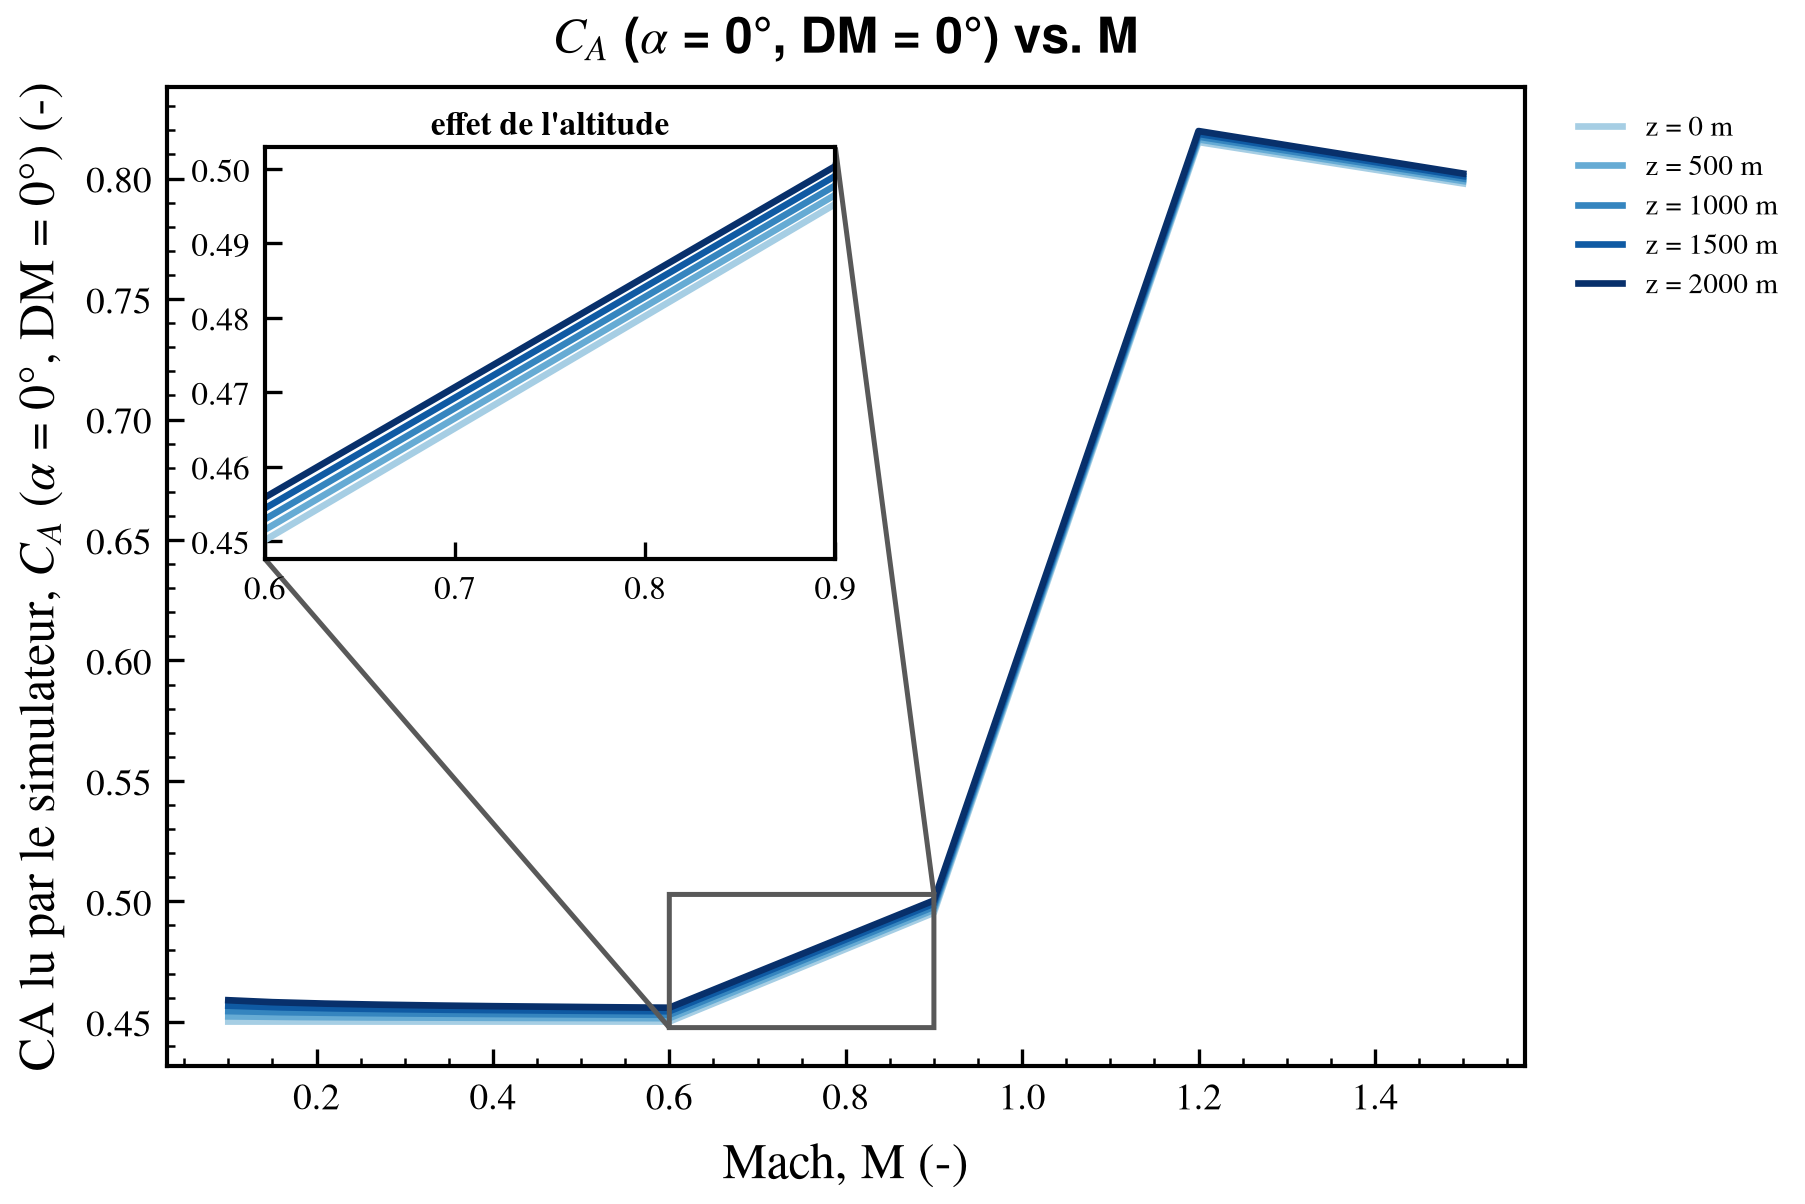
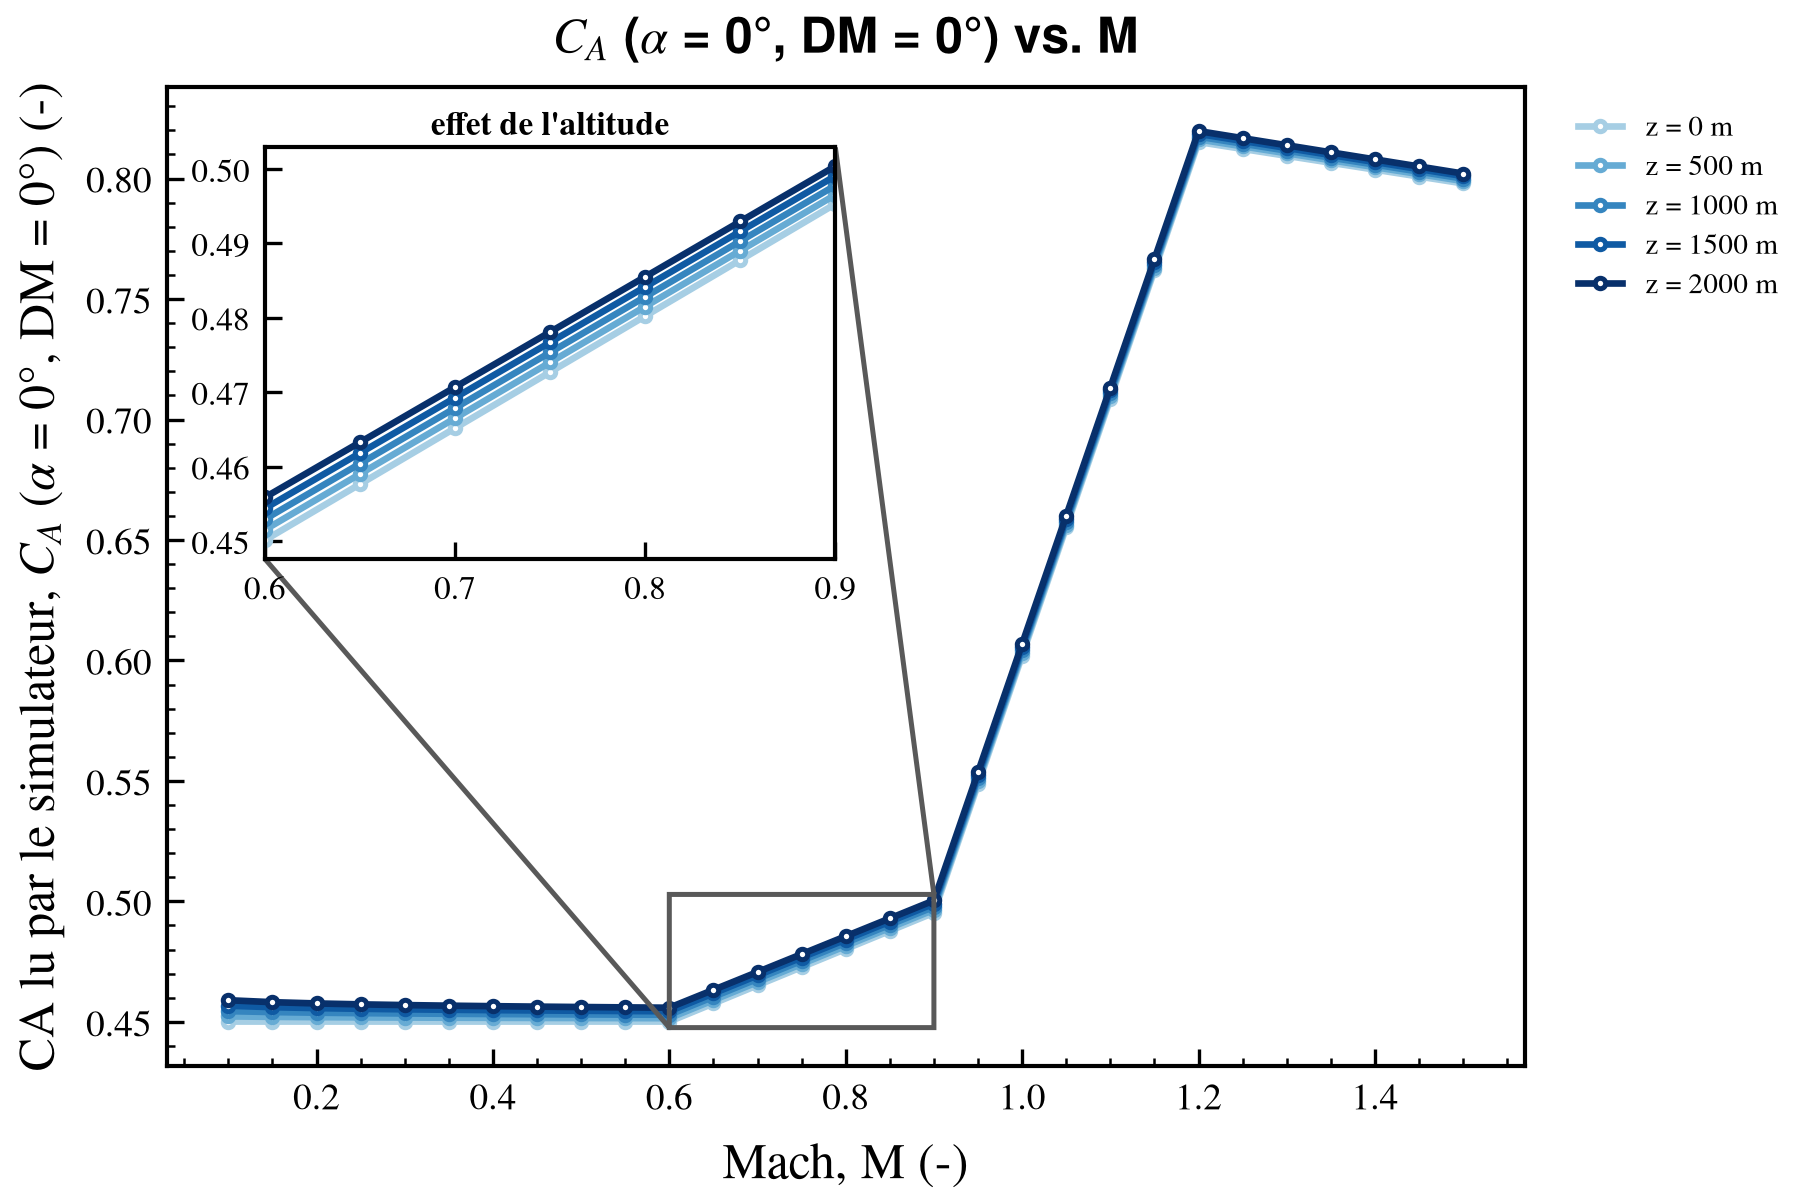
fix(cfd-doe): tracer_base_aero.py produit toujours les figures des coefficients
- Dérivées en α = 0 et DM = 0 : centrées sur un nœud intérieur, décentrées
  (ordre 1) sur une borne — table en α ≥ 0 non complétée par symétrie —,
  NaN quand 0 n'est pas un nœud ; le schéma est signalé en console. Elles
  exigeaient un nœud intérieur et arrêtaient tout le script sinon.
- Les figures des coefficients sont tracées d'abord ; un échec de
  l'équilibre ou des dérivées est signalé sans rien arrêter, une planche
  non produite est nommée au lieu d'interrompre la copie, les chiffres
  d'un nœud absent valent null.
- Courbes d'incrément avec marqueurs, aux Mach des deux tables : plus
  aucune courbe sans marqueur (erreur « Unrecognized marker style » dans
  un environnement utilisateur, non reproduite ici).

diff --git a/tools/cfd-doe/02_PRESENTATION_FUSEE_3DOF/tracer_base_aero.py b/tools/cfd-doe/02_PRESENTATION_FUSEE_3DOF/tracer_base_aero.py
@@ -264,29 +264,61 @@ def equilibre(t: pd.DataFrame) -> pd.DataFrame:
     return pd.DataFrame(lignes)
 
 
-def derivees(t: pd.DataFrame) -> pd.DataFrame:
-    """CNα, Cmα, CNδ, Cmδ (/rad) par différences centrées en α = 0, DM = 0, et marge statique.
+def _indice_zero(axe: np.ndarray) -> int | None:
+    trouves = np.flatnonzero(np.isclose(axe, 0.0, atol=1e-9))
+    return int(trouves[0]) if trouves.size else None
 
-    La marge, −Cmα/CNα, est en longueurs de référence de Cm (calibres si Lréf = D).
-    Un nœud vide parmi ceux de la différence donne NaN, jamais une dérivée calculée sur
-    un faux zéro.
+
+def _pente(axe: np.ndarray, i0: int | None, f) -> tuple[float, str]:
+    """Pente de ``f`` (fonction de l'indice) en ``axe[i0]`` = 0, par radian.
+
+    Centrée si 0 est un nœud intérieur ; décentrée (ordre 1, vers le seul voisin) s'il est
+    une borne — typiquement une table en α ≥ 0 non complétée par symétrie ; NaN si 0 n'est
+    pas un nœud ou s'il n'a pas de voisin.
     """
-    lignes = []
+    if i0 is None or len(axe) < 2:
+        return math.nan, "absent"
+    if 0 < i0 < len(axe) - 1:
+        bas, haut, schema = i0 - 1, i0 + 1, "centré"
+    elif i0 == 0:
+        bas, haut, schema = 0, 1, "décentré"
+    else:
+        bas, haut, schema = i0 - 1, i0, "décentré"
+    return (f(haut) - f(bas)) / math.radians(axe[haut] - axe[bas]), schema
+
+
+def derivees(t: pd.DataFrame) -> pd.DataFrame:
+    """CNα, Cmα, CNδ, Cmδ (/rad) en α = 0, DM = 0, et marge statique −Cmα/CNα.
+
+    Différences centrées quand α = 0 et DM = 0 sont des nœuds intérieurs, décentrées quand
+    ils sont une borne de la table, NaN quand ils n'en sont pas un nœud : le reste des
+    figures est produit quoi qu'il arrive. Le schéma retenu est dans ``attrs["schemas"]``.
+    La marge est en longueurs de référence de Cm (calibres si Lréf = D). Un nœud vide
+    parmi ceux de la différence donne NaN, jamais une dérivée calculée sur un faux zéro.
+    """
+    lignes, schemas = [], set()
     for m, g in t.groupby("mach"):
         a, d = np.sort(g["alpha"].unique()), np.sort(g["dm"].unique())
-        ia, idd = int(np.argmin(np.abs(a))), int(np.argmin(np.abs(d)))
-        if not (0 < ia < len(a) - 1 and 0 < idd < len(d) - 1):
-            raise ValueError("dérivées : α = 0 et DM = 0 doivent être des nœuds intérieurs")
+        ia, idd = _indice_zero(a), _indice_zero(d)
 
         def val(c, i, j, g=g, a=a, d=d):
-            return float(g.loc[(g["alpha"] == a[i]) & (g["dm"] == d[j]), c].iloc[0])
+            sel = g.loc[np.isclose(g["alpha"], a[i]) & np.isclose(g["dm"], d[j]), c]
+            return float(sel.iloc[0]) if len(sel) else math.nan
 
-        da = math.radians(a[ia + 1] - a[ia - 1])
-        dd = math.radians(d[idd + 1] - d[idd - 1])
-        cna = (val("CN", ia + 1, idd) - val("CN", ia - 1, idd)) / da
-        cma = (val("Cm", ia + 1, idd) - val("Cm", ia - 1, idd)) / da
-        cnd = (val("CN", ia, idd + 1) - val("CN", ia, idd - 1)) / dd
-        cmd = (val("Cm", ia, idd + 1) - val("Cm", ia, idd - 1)) / dd
+        # Pente en α à DM = 0, pente en DM à α = 0 ; sans l'un des deux nœuds, NaN.
+        def en_alpha(c, j=idd, val=val):
+            return lambda i: val(c, i, j)
+
+        def en_dm(c, i=ia, val=val):
+            return lambda j: val(c, i, j)
+
+        ia_ok = ia if idd is not None else None
+        idd_ok = idd if ia is not None else None
+        cna, sa = _pente(a, ia_ok, en_alpha("CN"))
+        cma, _ = _pente(a, ia_ok, en_alpha("Cm"))
+        cnd, sd = _pente(d, idd_ok, en_dm("CN"))
+        cmd, _ = _pente(d, idd_ok, en_dm("Cm"))
+        schemas |= {("α", sa), ("DM", sd)}
         lignes.append(
             {
                 "mach": m,
@@ -294,11 +326,13 @@ def derivees(t: pd.DataFrame) -> pd.DataFrame:
                 "Cma": cma,
                 "CNd": cnd,
                 "Cmd": cmd,
-                "marge": -cma / cna,
-                "CA0": val("CA", ia, idd),
+                "marge": -cma / cna if cna else math.nan,
+                "CA0": val("CA", ia, idd) if ia is not None and idd is not None else math.nan,
             }
         )
-    return pd.DataFrame(lignes)
+    der = pd.DataFrame(lignes)
+    der.attrs["schemas"] = sorted(schemas)
+    return der
 
 
 # ---------------------------------------------------------------------------
@@ -542,7 +576,9 @@ def tracer_increment(t: pd.DataFrame, inc: pd.DataFrame, sortie: Path, o: Option
         altitudes = np.asarray(o.altitudes, float)
     teintes = plt.get_cmap("Blues")(np.linspace(0.35, 1.0, len(altitudes)))
     ca = Table3D(t, "CA")
-    machs = np.linspace(min(inc["mach"].min(), t["mach"].min()), t["mach"].max(), 141)
+    # Les Mach des deux tables : la lecture est linéaire entre eux, rien à voir entre deux.
+    machs = np.unique(np.concatenate([inc["mach"].to_numpy(), t["mach"].to_numpy()]))
+    machs = machs[machs <= max(inc["mach"].max(), t["mach"].max())]
     a0, d0 = o.point_ca_total
     config = {}
     for z, c in zip(altitudes, teintes):
@@ -557,7 +593,8 @@ def tracer_increment(t: pd.DataFrame, inc: pd.DataFrame, sortie: Path, o: Option
             "df": df,
             "color": tuple(c),
             "lw": 1.6,
-            "marker": "none",
+            "marker": "o",
+            "ms": 2.5,
         }
     mach_zoom = dict(SWEEP_MACH)
     if o.zoom_mach:  # l'écart entre altitudes, invisible à l'échelle du saut transsonique
@@ -739,13 +776,28 @@ def tracer_base_aero(
             f"{len(ecartes)} nœud(s) non convergé(s) écarté(s) des tracés "
             f"(liste : {sortie / 'non_converges.csv'})"
         )
-    eq, der = equilibre(t), derivees(t)
     if not o.symetrie:
         o.habillage = Habillage(symetrie=False, marge_usuelle=o.habillage.marge_usuelle)
+    # Les coefficients d'abord : ce sont les figures qui doivent sortir quoi qu'il arrive.
     tracer_courbes(t, sortie, o)
     tracer_cartes(t, sortie, o)
     tracer_increment(t, inc, sortie, o)
-    tracer_derivees(eq, der, sortie, o)
+    # Les grandeurs dérivées ensuite : un échec y est signalé, il n'arrête rien.
+    eq = der = None
+    try:
+        eq, der = equilibre(t), derivees(t)
+        for axe, schema in der.attrs["schemas"]:
+            if schema == "décentré":
+                print(
+                    f"dérivées en {axe} : 0 est une borne de la table, différence décentrée (ordre 1)"
+                )
+            elif schema == "absent":
+                print(
+                    f"dérivées en {axe} : 0 n'est pas un nœud de la table, dérivées non calculées"
+                )
+        tracer_derivees(eq, der, sortie, o)
+    except Exception as erreur:  # n'empêche pas les figures des coefficients
+        print(f"équilibre et dérivées ignorés : {type(erreur).__name__}: {erreur}")
     if planches is None:
         return {}
     planches = Path(planches)
@@ -753,27 +805,32 @@ def tracer_base_aero(
     copiees = {}
     for nom, (dossier, fichier) in PLANCHES_ATTENDUES.items():
         source = sortie / dossier / f"{fichier}.png"
-        if not source.is_file():
-            raise FileNotFoundError(f"planche {nom} : {source} absent (formats sans png ?)")
-        copiees[nom] = Path(shutil.copy(source, planches / f"{nom}.png"))
-    a0 = t[(t["alpha"] == 0)]
+        if source.is_file():
+            copiees[nom] = Path(shutil.copy(source, planches / f"{nom}.png"))
+        else:
+            print(f"planche {nom} non produite ({source.relative_to(sortie)} absent)")
+    machs = np.sort(t["mach"].unique())
     butee = t["dm"].abs().max()
+
+    def lire(df, colonne, **filtre) -> float:
+        """Une valeur de ``df`` ; NaN si la ligne n'existe pas (nœud absent de la grille)."""
+        sel = np.ones(len(df), bool)
+        for c, v in filtre.items():
+            sel &= np.isclose(df[c], v)
+        return float(df.loc[sel, colonne].iloc[0]) if sel.any() else math.nan
+
     chiffres = {
-        "machs": [float(m) for m in np.sort(t["mach"].unique())],
-        "derivees": der.to_dict(orient="list"),
-        "alpha_eq_butee": [
-            float(eq[(eq["mach"] == m) & np.isclose(eq["dm"], -butee)]["alpha_eq"].iloc[0])
-            for m in np.sort(t["mach"].unique())
-        ],
-        "racines_par_courbe": sorted({int(n) for n in eq["n_racines"]}),
-        "courbes_equilibre": len(eq),
-        "CN_butee_alpha0": [
-            float(a0[(a0["mach"] == m) & np.isclose(a0["dm"], butee)]["CN"].iloc[0])
-            for m in np.sort(t["mach"].unique())
-        ],
-        "CA_max_braquage": float(
-            t.loc[np.isclose(t["dm"].abs(), butee) & (t["alpha"] == 0), "CA"].max()
-            - t.loc[(t["dm"] == 0) & (t["alpha"] == 0), "CA"].max()
+        "machs": [float(m) for m in machs],
+        "derivees": der.to_dict(orient="list") if der is not None else None,
+        "alpha_eq_butee": [lire(eq, "alpha_eq", mach=m, dm=-butee) for m in machs]
+        if eq is not None
+        else None,
+        "racines_par_courbe": sorted({int(n) for n in eq["n_racines"]}) if eq is not None else None,
+        "courbes_equilibre": len(eq) if eq is not None else 0,
+        "CN_butee_alpha0": [lire(t, "CN", mach=m, alpha=0.0, dm=butee) for m in machs],
+        "CA_max_braquage": max(
+            lire(t, "CA", mach=m, alpha=0.0, dm=butee) - lire(t, "CA", mach=m, alpha=0.0, dm=0.0)
+            for m in machs
         ),
         "noeuds": len(t),
         "non_converges": len(ecartes),

diff --git a/tools/cfd-doe/02_PRESENTATION_FUSEE_3DOF/README.md b/tools/cfd-doe/02_PRESENTATION_FUSEE_3DOF/README.md
@@ -72,8 +72,14 @@ planches = tracer_base_aero(
 | incrément : `mach`, `altitude`, `increment` | `mach`, `altitude`, `DZCA` | ΔzCA, altitude en m |
 
 La **grille** doit être carrée (produit complet des trois axes, sans doublon) : le script
-refuse sinon, en donnant le décompte. α = 0 et DM = 0 doivent être des nœuds intérieurs
-(dérivées par différences centrées).
+refuse sinon, en donnant le décompte. C'est la seule exigence pour les figures des
+coefficients (`COURBES/`, `CARTES/`, `INCREMENT/`), toujours produites en premier.
+
+Les dérivées (`DERIVEES/`) sont prises en α = 0 et DM = 0 : différences **centrées** quand
+ce sont des nœuds intérieurs, **décentrées** (ordre 1) quand ce sont des bornes — une table en
+α ≥ 0 non complétée par symétrie —, **non calculées** quand ce ne sont pas des nœuds ; le
+script le dit en console. Un échec de l'équilibre ou des dérivées est signalé et n'empêche
+aucune autre figure ; une planche non produite est nommée au lieu d'arrêter la copie.
 
 **Nœuds non convergés.** Un nœud dont **tous** les coefficients valent 0 est un calcul non
 convergé : ses coefficients passent à NaN avant tout tracé, et sa liste est écrite dans
